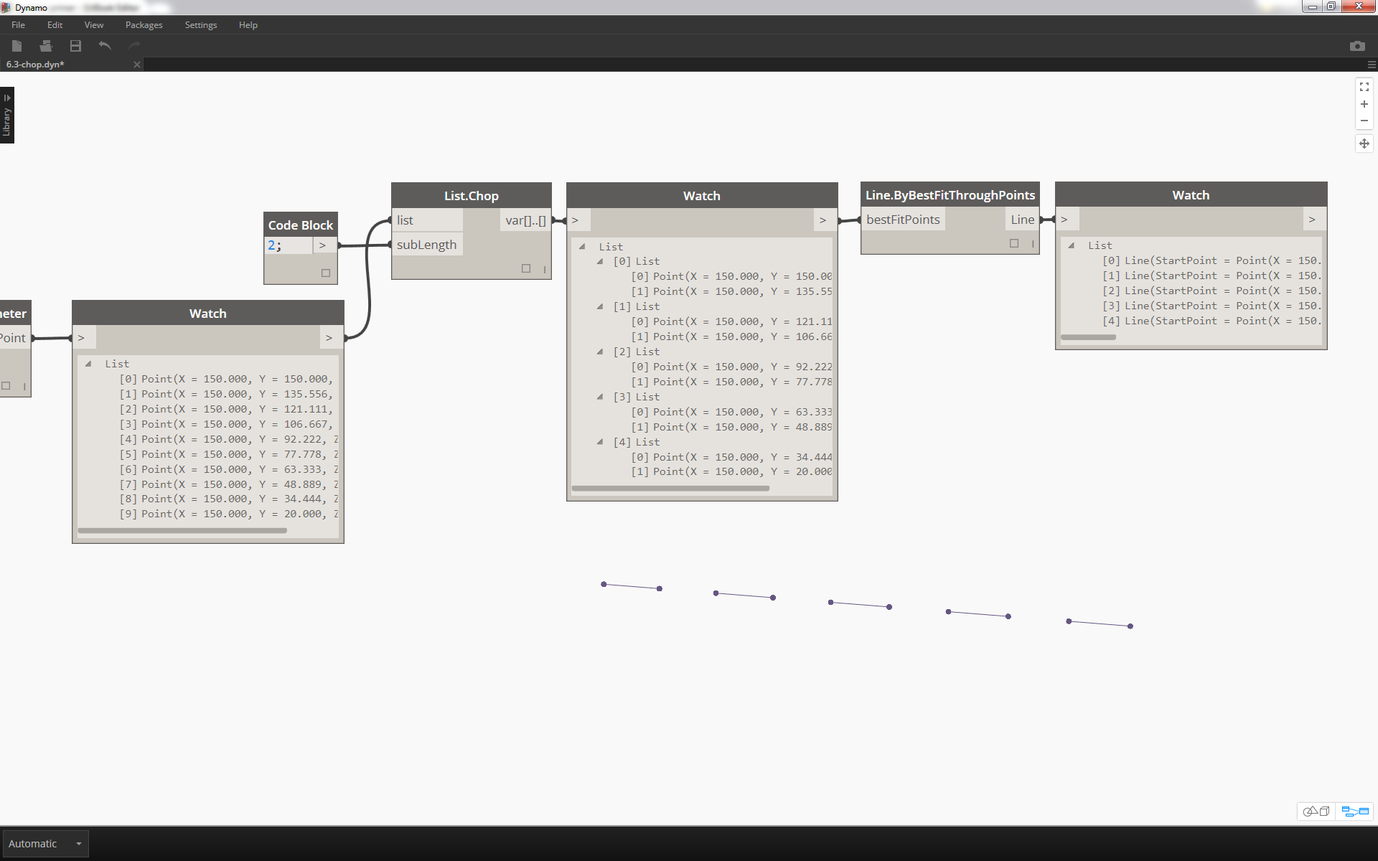
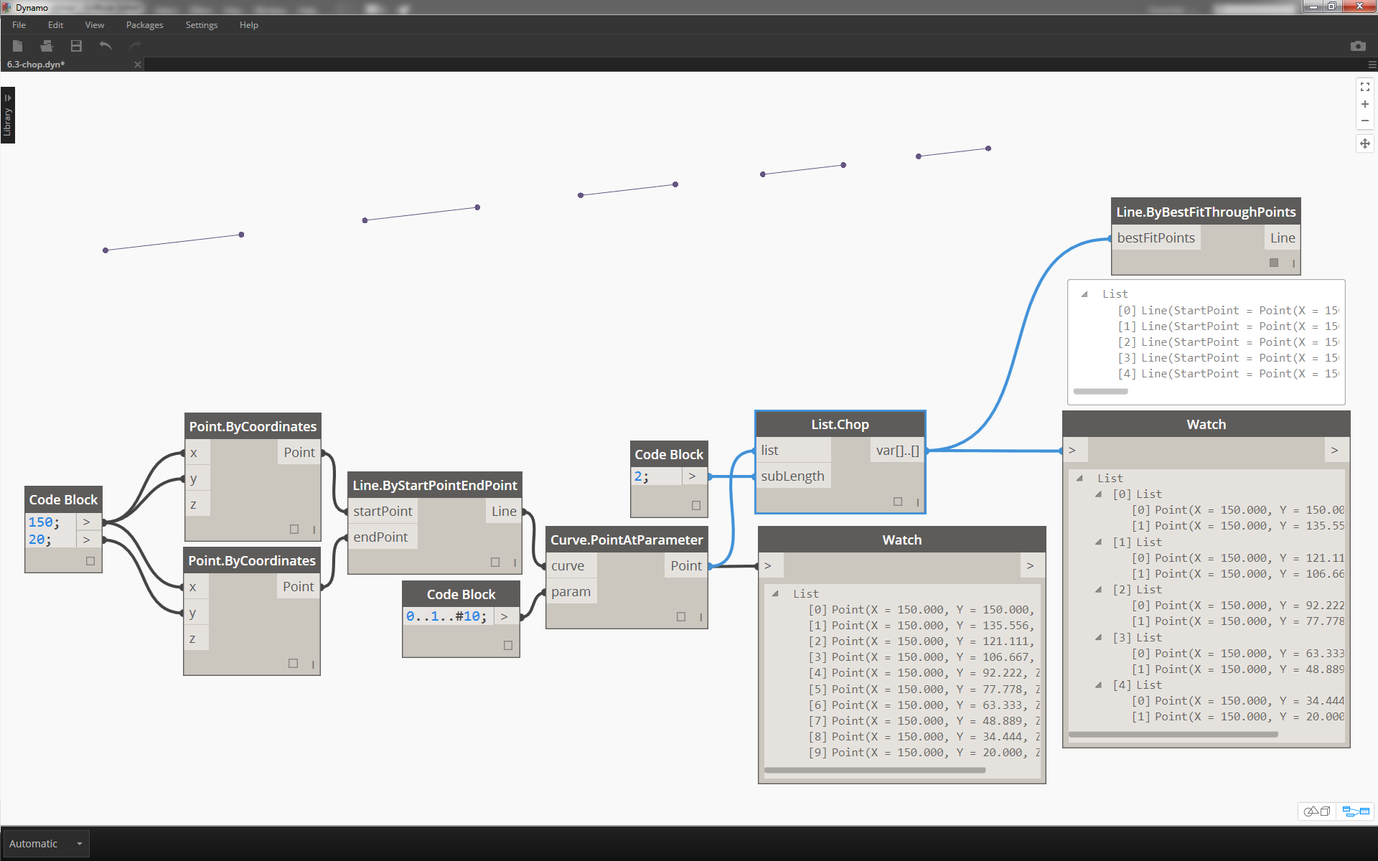
Chapter 6 - Lists - Rough Draft

diff --git a/06_Designing-with-Lists/6-3_lists-of-lists.md b/06_Designing-with-Lists/6-3_lists-of-lists.md
@@ -1,22 +1,68 @@
-## List of Lists
-Text
-###Top-Down Hierarchy
-![top-down](images/6-3/top-down.png)
+## Lists of Lists
+Let's add one more tier to the hierarchy.  If we take the deck of cards from the original example and create a box which contains multiple decks, the box now represents a list of decks, and each deck represents a list of cards.  This is a list of lists.  For the analogy in this section, the red box below contains a list of coin rolls, and each roll contains a list of pennies.
 
-###Flatten
+![Coins](images/6-3/coins.jpg)
+
+What **queries** can we make from the list of lists? This accesses existing properties.
+* Number of rolls in the red box? 20.
+* Number of pennies in each roll? 50.
+* Number of pennies in the red box? 1,000.
+* Material of red box? Aluminum.
+* Material of coin roll? Paper.
+* Material of penny? 97.5% zinc and 2.5% copper.
+
+What **actions** can we perform on the list of lists? This changes the list of lists based on a given operation.
+* Select a specific roll of pennies.
+* Select a specific penny.
+* Rearrange the rolls of pennies.
+* Flip the orientation of the rolls from horizontal to vertical.
+
+Again, Dynamo has an analagous node for each one of the operations above. Since we're working with abstract data and not physical objects, we need a set of rules to govern how we move up and down the data hierarchy.
+
+When dealing with lists of lists, the data is layered and complex, but this provides an opportunity to do some awesome parametric operations.  Let's break down the fundamentals and discuss a few more operations in the lessons below.
+
+##Top-Down Hierarchy
+
+The fundamental concept to learn from this section: **Dynamo treats lists as objects in and of themselves**.  This top-down hierarchy is developed with object-oriented programming in mind.  Rather than selecting sub-elements with a command like List.GetItemAtIndex, Dynamo will select that index of the main list in the data structure.  And that item can be another list.  Let's break it down with an example image:
+
+#### Exercise - Top-Down Hierarchy
+
+![top-down](images/6-3/top-down.png)
+>1. With code block, we've defined two ranges:```
+0..2;
+0..3;
+```
+2. These ranges are connected to a Point.ByCoordinates node with lacing set to "Cross Product".  This creates a grid of points, and also returns a list of lists as an output.
+3. Notice that the watch node gives 3 lists with 4 items in each list.
+4. When using List.GetItemAtIndex, with an index of 0, Dynamo selects the first list and all of its contents.  Other programs may select the first item of every list in the data structure, but Dynamo employs a top-down hierarchy when dealing with data.
+
+###Flatten and List.Flatten
+Flatten removes all tiers of data from a data structure. This is helpful when the data hierarchies are not necessary for your operation, but it can be risky because it removes information.  The example below shows the result of flattening a list of data.
+
+#### Exercise - Flatten
 
 ![Exercise](images/6-3/Exercise/Flatten-31.png)
+> 1. Insert one line of code to define a range in code block:```
+-250..-150..#4;
+```
+2. Pluggin the code block into the x and y input of a Point.ByCoordinates node, we set the lacing to "Cross Product" to get a grid of points.
+3. The watch node shows that we have a list of lists.
+4. A PolyCurve.ByPoints node will reference each list and create a respective polycurve.  Notice in the Dynamo preview that we have four polycurve representing each row in the grid.
 
 ![Exercise](images/6-3/Exercise/Flatten-30.png)
+>1. By inserting a flatten before the polycurve node, we've created one single list for all of the points.  The polycurve node references a list to create one curve, and since all of the points are on one list, we get one zig-zag polycurve which runs throughout the entire list of points.
+
+There are also options for flattening isolated tiers of data.  Using the List.Flatten node, you can define a set number of data tiers to flatten from the top of the hierarchy.  This is a really helpful tool if you're struggling with complex data structures which are not necessarily relevant to your workflow.  And another option is to use the flatten node as a function in List.Map.  We'll discuss List.Map more below.
 
 ###Chop
+When parametric modeling, there are also times where you'll want to add more data structure to an existing list.  There are many nodes available for this as well, and chop is the most basic version.  With chop, we can partition a list into sublists with a set number of items.
+
+#### Exercise - List.Chop
+
 ![Chop](images/6-3/chop-01.jpg)
+> A List.Chop with a subLength of 2 creates 4 lists with 2 items each.
 
-![Exercise](images/6-3/Exercise/Chop-03.png)
-
-![Exercise](images/6-3/Exercise/Chop-02.png)
-
-![Exercise](images/6-3/Exercise/Chop-01.png)
+The chop command divides lists based on a given list length. In some ways, chop is the opposite of flatten: rather than removing data structure, it adds new tiers to it.  This is a helpful tool for geometric operations like the example below.
 
 ![Exercise](images/6-3/Exercise/Chop-00.png)
 
@@ -56,16 +102,43 @@ Notice that the List.Count node gives a value of 5.  This is equal to the "Nx" v
 3. The results of List.Count now gives a list of 5 items, each with a value of 3.  This represents the length of each sublist.
 
 #### Exercise - List.Combine
+In this exercise, we'll use a similar logic to List.Map, but with multiple elements.  In this case, we want to divide a list of curves by a unique number of points.
 
 ![Exercise](images/6-3/Exercise/Combine-33.png)
+> 1. Using the code block, define a range using the syntax: ```..20..#4;
+``` and a value of ```20;
+``` below that line.
+2. Connect the code block to two Point.ByCoordinates nodes.
+3. Create a Line.ByStartPointEndPoint from the Point.ByCoordinates nodes.
+4. The watch node shows four lines.
 
 ![Exercise](images/6-3/Exercise/Combine-32.png)
+> 1. Below the graph for line creation, we want to create four distinct ranges to divide the lines uniquely. We do this with the following lines of code:
+```
+0..1..#3;
+0..1..#4;
+0..1..#5;
+0..1..#6;
+```
+2. With a List.Create node, we merge the four lines from the code block into one list.
+3. The Watch node reveals a list of lists.
 
 ![Exercise](images/6-3/Exercise/Combine-31.png)
+> 1. Curve.PointAtParameter will not work by connecting the lines directly into the parameter values.  We need to step one level down on the hierarchy. For this, we'll use List.Combine.
 
 ![Exercise](images/6-3/Exercise/Combine-30.png)
+> By using List.Combine, we can successfully divide each line by the given ranges.  This gets a little tricky, so we'll break it down in-depth.
+1. First, add a Curve.PointAtParameter node to the canvas.  This will be the "function" or "combinator" that we apply to List.Combine node. More on that in a second.
+2. Add a List.Combine node to the canvas.  Hit the "+" or "-" to add or subtract inputs. In this case, we'll use the default two inputs on the node.
+3. We want to plug the Curve.PointAtParameter node into the "comb" input of List.Combine. And one more important node: be sure to right-click the "param" input of Curve.PointAtParameter and uncheck "use default value". Default values in Dynamo inputs have to be removed when running a node as a function.
+4. We know we have two inputs, the lines and the parameters to create points. But how do we connect them to the List.Combine inputs and in what order?
+5. The empty inputs of Curve.PointAtParameter, from top-to-bottom need to be filled in the combinator in the same order.  So, the lines are plugged into list1 of List.Combine.
+6. Following suit, the parameter value are plugged into the list2 input of List.Combine.
+7. The Watch node and the Dynamo preview shows us that we have 4 lines, each divided based on the code-block ranges.
 
 ###Transpose
+Transpose is a fundamental function when dealing with lists of lists. Just as in spreadsheet programs, a transpose flips the columns and rows of a data structure. We'll demonstrate this with a basic matrix below, and in the following section, we'll demonstrate how a transpose can be use to create geometric relationships.
+
 ![Transpose](images/6-3/transpose1.jpg)
 
 #### Exercise - List.Transpose
@@ -85,13 +158,17 @@ Notice that the List.Count node gives a value of 5.  This is equal to the "Nx" v
 3. Notice the geometric result: using PolyCurve.ByPoints, we get 3 polycurves in the perependicular direction to the original curves.
 
 ###Code Block Creation
+Code block shorthand uses "{}" to define a list.  This is a much faseter and fluid way to create list than the List.Create node. Code block is discussed in more detail in Chapter 7.  Reference the image below to note how a list with multiple expressions can be defined with code block.
+
 ![CB](images/6-3/cbCreation.png)
 
 
 ###Code Block Query
+Code block shorthand is uses "[]" as a quick and easy way to select specific items that you want from a complex data structure. Code block is discussed in more detail in Chapter 7.  Reference the image below to note how a list with multiple data types can be queried with code block.
+
 ![CB](images/6-3/cbQuery.png)
 
-###Exercise
+###Exercise - Querying and Inserting Data
 This exercise uses some of the logic established in the previous one to edit a surface. Our goal here is intuitive, but the data structure navigation will be more involved.  We want to articulate a surface by moving a control point.
 
 ![Exercise](images/6-3/Exercise/B/06.png)

diff --git a/06_Designing-with-Lists/6-1_whats-a-list.md b/06_Designing-with-Lists/6-1_whats-a-list.md
@@ -1,6 +1,13 @@
 ## What's a List?
+A list is a collection of elements, or items.  Take a bunch of bananas for example.  Each banana is an item within the list (or bunch). It's easier to pick up a bunch of bananas rather than each banana individually, and the same holds for grouping elements by parametric relationships in a data structure.
 
-### Zero-Based Index
+![Bananas](images/6-1/bananas.jpg)
+
+When we buy groceries, we put all of the purchased items into a bag.  This bag is also a list.  If we're making banana bread, we need 3 bunches of bananas (we're making a *lot* of banana bread).  The bag represents a list of banana bunches and each bunch represents a list of bananas.  The bag is a list of lists (two-dimensional) and the banana is a list (one-dimensional).
+
+In Dynamo, list data is ordered, and the first item in each list has an index "0".  Below, we'll discuss how lists are defined in Dynamo and how multiple lists relate to one another.
+
+## Zero-Based Index
 
 One thing that might seem odd at first is that the first index number of a list
 is always 0; not 1. So, when we talk about the first item of a list, we actually mean
@@ -9,7 +16,7 @@ the item that corresponds to index number 0.
 For example, if we were to count the number of fingers we have on our right
 hand, chances are that you would have counted from 1 to 5. However,Dynamo would count this list from 0 to 4.
 
-![Count](images/6-1/items.png)
+![items](images/6-1/items.png)
 
 Note that we still have 5 items in the list; it’s just that the list is using a zero-based
 counting system. And the items being stored in the list don’t just have to be
@@ -21,6 +28,13 @@ is to connect a watch node to another node's output. By default, the watch node 
 
 The index numbers are a crucial element when working with lists.
 
+### Inputs and Outputs
+![Input Examples](images/6-2/Polycurve.Inputs.png)
+> 1. The input data for PolyCurve.ByPoints and Circle.ByCenterPointRadius are the same, however the Polycurve battery gives us one polycurve while the Circle.ByCenterPointRadius battery gives us 5 circles with centers at each point.  Intuitively this makes sense: the polycurve is drawn as a curve connecting the 5 points, while the circles create a differenct circle at each point.  So what's happening with the data?
+2. However over the "points" input for Polycurve.ByPoints, we see that the input is looking for "Point[]".  This represents a list of points, and to create a polycurve, the input needs to be a list for each polycurve.  This battery will therefore condense each list into one polycurve.
+3.  On the other hand, the "centerPoint" input for Cirle.ByCenterPointRadius asks for "Point".  This battery looks for one point, as an item, to define the center point of the circle.  This is why we get five circles from the input data.
+4.  Recognizing these difference with inputs in Dynamo helps to better understand how the batteries are operating when managing data.
+
 ###Lacing
 Data matching is a problem without a clean solution. It occurs when a node has access to differently sized inputs. Changing the data matching algorithm can lead to vastly different results.
 
@@ -31,8 +45,10 @@ Imagine a node which creates line segments between points (Line.ByStartPointEndP
 As you can see there are different ways in which we can draw lines between these sets of points. Lacing options are found by right-clicking the center of a node and choosing the "Lacing" menu.
 
 ###Base File
+To demonstrate the lacing operations below, we'll use this base file to define shortest list, longest list, and cross product.
+
 ![Input Examples](images/6-1/lacing.png)
- > 1. To demonstrate the lacing operations below, we'll use this base file to define shortest list, longest list, and cross product.  We'll change the lacing on Point.ByCoordinates, but won't change anything else about the graph above.
+ > 1. We'll change the lacing on Point.ByCoordinates, but won't change anything else about the graph above.
 
 ####Shortest List
 The simplest way is to connect the inputs one-on-one until one of the streams runs dry. This is called the “Shortest List” algorithm:
@@ -40,6 +56,7 @@ The simplest way is to connect the inputs one-on-one until one of the streams ru
 ![Input Examples](images/6-1/shortestListDiagram.png)
 
 ![Input Examples](images/6-1/shortestList.png)
+> By changing the lacing to shortest list, we get a basic diagonal line composed of five points. Five points is the length of the lesser list, so the shortest list lacing stops after it reaches the end of one list.
 
 ####Longest List
 The “Longest List” algorithm keeps connecting inputs until all streams run dry. This is the default behavior for components:
@@ -47,6 +64,7 @@ The “Longest List” algorithm keeps connecting inputs until all streams run d
 ![Input Examples](images/6-1/longestListDiagram.png)
 
 ![Input Examples](images/6-1/longestList.png)
+> By changing the lacing to longest list, we get a diagonal line which extends vertically.  By the same method as the concept diagram, the last item in the list of 5 items will be repeated to reach the length of the longer list.
 
 ####Cross Product
 Finally, the “Cross Product” method makes all possible connections:
@@ -54,6 +72,8 @@ Finally, the “Cross Product” method makes all possible connections:
 ![Input Examples](images/6-1/crossProductDiagram.png)
 
 ![Input Examples](images/6-1/crossProduct.png)
+> By changing the lacing to Cross Product, we get every combination between each list, giving us a 5x10 grid of points.  This is an equivalent data structure to the cross product as shown in the concept diagram above, except our data is now a list of lists.  By connecting a polycurve, we can see that each list is defined by its X-Value, giving us a row of vertical lines.
+
 
 
 

diff --git a/06_Designing-with-Lists/6-2_working-with-lists.md b/06_Designing-with-Lists/6-2_working-with-lists.md
@@ -1,14 +1,29 @@
 ## Working with Lists
+Now that we've established what a list is, let's talk about operations we can perform on it. Imagine a list as a deck of playing cards.  A deck is the list and each playing card represents an item.
 
-### Inputs and Outputs
-![Input Examples](images/6-2/Polycurve.Inputs.png)
-> 1. The input data for PolyCurve.ByPoints and Circle.ByCenterPointRadius are the same, however the Polycurve battery gives us one polycurve while the Circle.ByCenterPointRadius battery gives us 5 circles with centers at each point.  Intuitively this makes sense: the polycurve is drawn as a curve connecting the 5 points, while the circles create a differenct circle at each point.  So what's happening with the data?
-2. However over the "points" input for Polycurve.ByPoints, we see that the input is looking for "Point[]".  This represents a list of points, and to create a polycurve, the input needs to be a list for each polycurve.  This battery will therefore condense each list into one polycurve.
-3.  On the other hand, the "centerPoint" input for Cirle.ByCenterPointRadius asks for "Point".  This battery looks for one point, as an item, to define the center point of the circle.  This is why we get five circles from the input data.
-4.  Recognizing these difference with inputs in Dynamo helps to better understand how the batteries are operating when managing data.
+![cards](images/6-2/playingCards.jpg)
+
+What **queries** can we make from the list? This accesses existing properties.
+* Number of cards in the deck? 52.
+* Number of suits? 4.
+* Material? Paper.
+* Length? 3.5" or 89mm.
+* Width? 2.5" or 64mm.
+
+What **actions** can we perform on the list? This changes the list based on a given operation.
+* We can shuffle the deck.
+* We can sort the deck by value.
+* We can sort the deck by suit.
+* We can split the deck.
+* We can partition the deck by dealing out individual hands.
+* We can select a specific card in the deck.
+
+All of the operations listed above have analogous Dynamo nodes for working with lists of generic data.  The lessons below will demonstrate some of the fundamental operations we can perform on lists.
 
 ##List Operations
 The image below is the base graph we will be using to demonstrate basic list operations. We'll explore how to manage data within a list and demonstrate the visual results.
+
+#### Exercise - List Operations
 
 ![Exercise](images/6-2/Exercise/40.png)
 > 1. Begin with a code block with a value of ```500;
@@ -31,6 +46,8 @@ The image below is the base graph we will be using to demonstrate basic list ope
 ![Count](images/6-2/count.png)
 > The List.Count node is straightforward: it counts the number of values in a list and returns that number.  This node gets more nuanced as we work with lists of lists, but we'll demonstrate that in the coming sections.
 
+#### Exercise - List.Count
+
 ![Count](images/6-2/Exercise/35.png)
 > 1. The List.Count node returns the number of lines in the Line.ByStartPointEndPoint node.  The value is 10 in this case, which agrees with the number of points created from the original code block node.
 
@@ -38,6 +55,7 @@ The image below is the base graph we will be using to demonstrate basic list ope
 ![index](images/6-2/index.png)
 > List.GetItemAtIndex is a fundamental way to query an item in the list.  In the image above, we are using an index of "2" to query the point labeled "C".
 
+#### Exercise - List.GetItemAtIndex
 ![Exercise](images/6-2/Exercise/33.png)
 >1. Using the List.GetItemAtIndex node, we are selecting index "0", or the first item in the list of lines.
 2. The Watch 3D node reveals that we've selected one line. Note: to get the image above, be sure to disable the preview of Line.ByStartPointEndPoint.
@@ -46,6 +64,7 @@ The image below is the base graph we will be using to demonstrate basic list ope
 ![reverse](images/6-2/reverse.png)
 > List.Reverse reverses the order of all of the items in a list.
 
+#### Exercise - List.Reverse
 ![Exercise](images/6-2/Exercise/34.png)
 >1. To properly visualize the reversed list of lines, create more lines by changing the code block to ```0..1..#100;
 ```
@@ -57,6 +76,7 @@ The image below is the base graph we will be using to demonstrate basic list ope
 ![shift](images/6-2/shift.png)
 > List.ShiftIndices is a good tool for creating twists or helical patterns, or any other similar data manipulation.  This node shifts the items in a list a given number of indices.
 
+#### Exercise - List.ShiftIndices
 ![Exercise](images/6-2/Exercise/31.png)
 >1. In the same process as the reverse list, insert a List.ShiftIndices into the Curve.PointAtParameter and Line.ByStartPointEndPoint.
 2. Using a code block, designated a value of "1" to shift the list one index.
@@ -69,6 +89,7 @@ The image below is the base graph we will be using to demonstrate basic list ope
 ![cull](images/6-2/cull2.png)
 > List.FilterByBooleanMask will remove certain items based on a list of booleans, or values reading "true" or "false".
 
+#### Exercise - List.FilterByBooleanMask
 ![Exercise](images/6-2/Exercise/30.png)
 > In order to create a list of values reading "true" or "false", we need to a little more work...
 1. Using a code block, define an expression with the syntax: ```0..List.Count(list);

diff --git a/06_Designing-with-Lists/6-4_n-dimensional-lists.md b/06_Designing-with-Lists/6-4_n-dimensional-lists.md
@@ -1,17 +1,27 @@
 ## n-Dimensional Lists
-Data structure can expand far beyond a two-dimensional list of lists.  Since lists are items in and of themselves in Dynamo, we can create data with as many dimensions as possible.  This is difficult to explain visually, but we've set up a few exercises in this chapter which focus on working with lists which are greater than two dimensions.
-###Mapping and Combinations
+Further down the rabbit-hole, let's add even more tiers to hierarchy. Data structure can expand far beyond a two-dimensional list of lists.  Since lists are items in and of themselves in Dynamo, we can create data with as many dimensions as possible.
+
+The analogy we'll work with here are Russian Nesting Dolls.  Each list can be regarded as one container holding multiple items. Each list has its own properties and is also regarded as its own object.
+
+![Dolls](images/6-4/bytes.jpg)
+> A set of Russian Nesting Dolls (designed by [Art Lebedev](http://www.artlebedev.com/everything/matryoshkus/)) is an analogy for n-Dimensional lists.  Each layer represents a list, and each list contains items within it.  In Dynamo's case, each container can have multiple containers inside (representing the items of each list).
+
+n-Dimensional lists are difficult to explain visually, but we've set up a few exercises in this chapter which focus on working with lists which venture beyond two dimensions.
+
+##Mapping and Combinations
 Mapping is arguably the most complex part of data management in Dynamo, and is especially relevant when working with complex hierarchies of lists.  With the series of exercises below, we'll demonstrate when to use mapping and combinations as data becomes multi-dimensional.
 
-###Exercise
-This exercise is the first in a series of three which focuses on articulating imported geometry.  Each part in this series of exercises will increase in complexity in data structure.
+Preliminary introductions to List.Map and List.Combine can be found in the previous section. In the last exercise below, we'll use these nodes on a complex data structure.
+
+###Exercise - 2D Lists - Basic
+This exercise is the first in a series of three which focuses on articulating imported geometry.  Each part in this series of exercises will increase in the complexity of data structure.
 
 ![Exercise](images/6-4/Exercise/A/04.png)
 > 1. Let's begin with the .sat file in the exercise file folder.  We can grab this file using the File Path node.
 2. With Geometry.ImportFromSAT, the geometry is imported into our Dynamo preview as two surfaces.
 
 ![Exercise](images/6-4/Exercise/A/03.png)
-> For this exercise, we want to keep it simple and work with one of the surface.
+> For this exercise, we want to keep it simple and work with one of the surfaces.
 1. Let's select the index of 1 to grab the upper surface.  We do this with List.GetItemAtIndex node.
 
 ![Exercise](images/6-4/Exercise/A/02.png)
@@ -33,7 +43,7 @@ This exercise is the first in a series of three which focuses on articulating im
 2. Connecting the output of List.Transpose to NurbsCurve.ByPoints, we now get five curves running horizontally across the surface.
 
 
-###Exercise
+###Exercise - 2D Lists - Advanced
 Let's increase the complexity.  Suppose we wanted to perform an operation on the curves created from the previous exercise.  Perhaps we want to relate these curves to another surface and loft between them.  This requires more attention to data structure, but the underlying logic is the same.
 
 ![Exercise](images/6-4/Exercise/B/07.png)
@@ -72,7 +82,7 @@ Let's increase the complexity.  Suppose we wanted to perform an operation on the
 > 1. Stepping back a few steps, if we want to switch the orienation of the curves in the ribbed structure, we want to use a List.Transpose before before connect to NurbsCurve.ByPoints.  This will flip the columns and rows, giving us 5 horizontal ribs.
 
 
-###Exercise
+###Exercise - 3D Lists
 Now, we're going to go even one step further.  In this exercise, we'll work with both imported surfaces, creating a complex data hierarchy.  Still, our aim is to complete the same operation with the same underlying logic.
 
 ![Exercise](images/6-4/Exercise/C/12.png)

diff --git a/07_Code-Block/7-1_what-is-a-code-block.md b/07_Code-Block/7-1_what-is-a-code-block.md
@@ -1,5 +1,5 @@
 ## What's a Code Block?
-Code block is the secret sauce of Dynamo.  It is a powerful tool which allows the user to work fluidly and parametrically throughout a project.  While the term 'code block' may be a little intimidating to non-programmers, it is both easy to use and robust.  A beginner can use the code block efficiently with minimal coding, and an advanced user can define scripted definitions to be recalled elsewhere in a Dynamo definition.  We highly recommend that you get familiar with code block as you develop your Dynamo definitions, and this chapter demonstrates how and why the code block is awesome.
+Code block is the special sauce of Dynamo.  It is a powerful tool which allows the user to work fluidly and parametrically throughout a project.  While the term 'code block' may be a little intimidating to non-programmers, it is both easy to use and robust.  A beginner can use the code block efficiently with minimal coding, and an advanced user can define scripted definitions to be recalled elsewhere in a Dynamo definition.  We highly recommend that you get familiar with code block as you develop your Dynamo definitions, and this chapter demonstrates how and why the code block is awesome.
 ![Code Block Intro](images/7-1/daisy.png)
 ###Code Block: A brief overview
 In short, code blocks are a text-scripting interface within a visual-scripting environment.  They can be used as numbers, strings, formulas, and other data types.  The code block is designed for Dynamo, so one can define arbitrary variables in the code block, and those variables are automatically added to the inputs of the battery:
